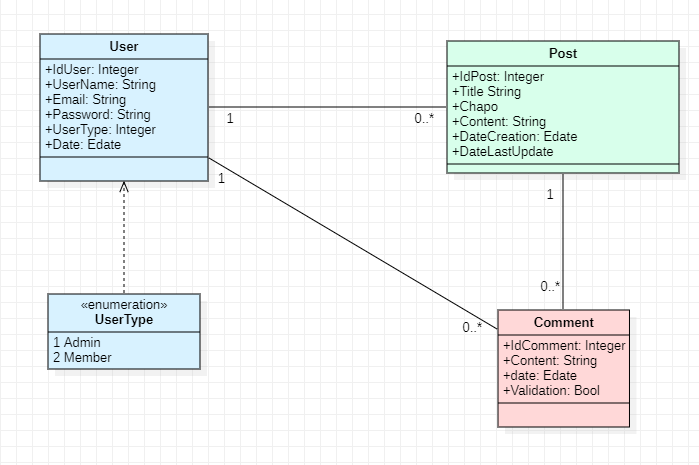
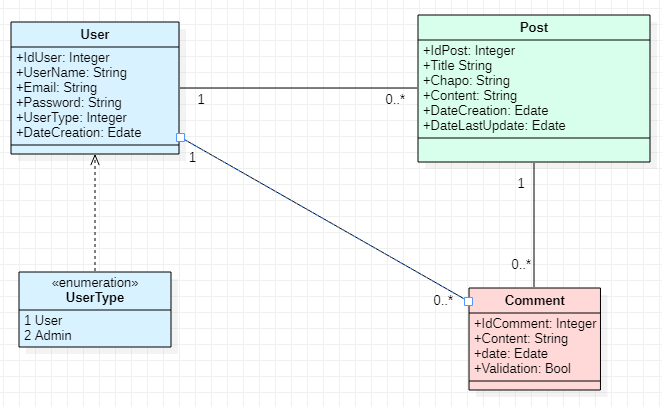
final commit , project is finish

Changed region(s): [[0.0, 0.0295, 0.997, 0.973], [0.0302, 0.6192, 0.3021, 0.855]]

diff --git a/P5_01_projet/App/View/Post.php b/P5_01_projet/App/View/Post.php
@@ -65,7 +65,7 @@ $title = 'PostView';
             <div class="col-10">
 
                 <p class="col-12">
-                    <?= (self::escape($comment->getContent())); ?>
+                    <?= (nl2br(self::escape($comment->getContent()))); ?>
                 </p>
                 <p class="col-12 card-footer">
                     Ecrit le <strong
@@ -73,12 +73,14 @@ $title = 'PostView';
                     à <strong
                             class="col-2"><?= (self::escape($comment->getDateCreation()->format('H:i:s'))) ?></strong>
                 </p>
+                <?php if (isset($userConnected) && $userConnected->getUserTypeId() >= 1) : ?>
                 <div class="row ">
                     <a class="btn btn-danger btn_comment offset-md-3 col-md-2 col-sm-6"
                        href='/index.php?action=deleteComment&id=<?= self::escape($comment->getIdComment()) ?>&idPost=<?= self::escape($comment->getPostId()) ?>'>
                         Supprimer
                     </a>
                 </div>
+                <?php endif;?>
             </div>
         </div>
         <hr>

diff --git a/P5_01_projet/App/Controller/DeleteCommentController.php b/P5_01_projet/App/Controller/DeleteCommentController.php
@@ -17,7 +17,7 @@ class DeleteCommentController extends Controller
 
         $this->addMessageFlash("Commentaire supprimé.", self::TYPE_FLASH_ERROR);
 
-        if ($idPost !== null)
+        if (isset($idPost))
         {
             $this->redirect("post", ["id" => $idPost]);
         }

diff --git a/P5_02_Instructions/Install.md b/P5_02_Instructions/Install.md
@@ -1,0 +1,54 @@
+## How to install ?
+
+### Step 1 :
+You need to install composer in your workplace. For this, let's go here https://getcomposer.org/download/. 
+Download and install it on your computer.
+
+### Step 2 :
+Create a directory in your localserver (Exemple for Wamp : C:/wamp64/www). And clone project with this link https://github.com/Alexisleveque-OC/P5_leveque_alexis.git .
+
+### Step 3 :
+Create Database MySql with your SGBD (You can choose the name you want). Import file Creation_db.sql for create all tables.
+If you want a dataset, you can import Dataset.sql . This files was in project root.
+
+### Step 4 :
+Create a virtualhost, for this :
+- Go to your localhost
+- In tool tabs, click on "Create a Virtual Host"
+- set fields with your information (ex : "blog.local" and "absolute path"/your_directory(create in the beginning)/p5_01_projet/public )
+
+### Step 5 :
+In your terminal, go to your directory of project and submit :
+- "composer init" (for init composer)
+- "composer require --dev symfony var-dumper"
+- "composer update"
+- "composer dump-autoload"
+Check that these lines are there in vendor->composer.json
+ ````php
+    {
+        "name": "alexisleveque-oc/p5_leveque_alexis",
+        "authors": [
+            {
+                "name": "LEVEQUE",
+                "email": "alexis.leveque78@gmail.com"
+            }
+        ],
+        "autoload": {
+            "psr-4": {
+                "App\\": "App/"
+            }
+        },
+        "require-dev": {
+            "symfony/var-dumper": "^5.0"
+        }
+    }
+
+ ````
+
+### Step 6 : 
+Configure file "config.php" (in directory App) whit your information and rename this one "config.local.php".
+
+#### Note 
+- If you want manage this blog, you must subscribe and in your SGBD change your user_type_id to 2.
+-- 'UPDATE user SET user_type_id = 2 WHERE user_name = "your_name"'
+- If you want test mail, you must install maildev( or other mail interceptor) ang go to your localhost:1080 , send mail with contact form and that work !!!
